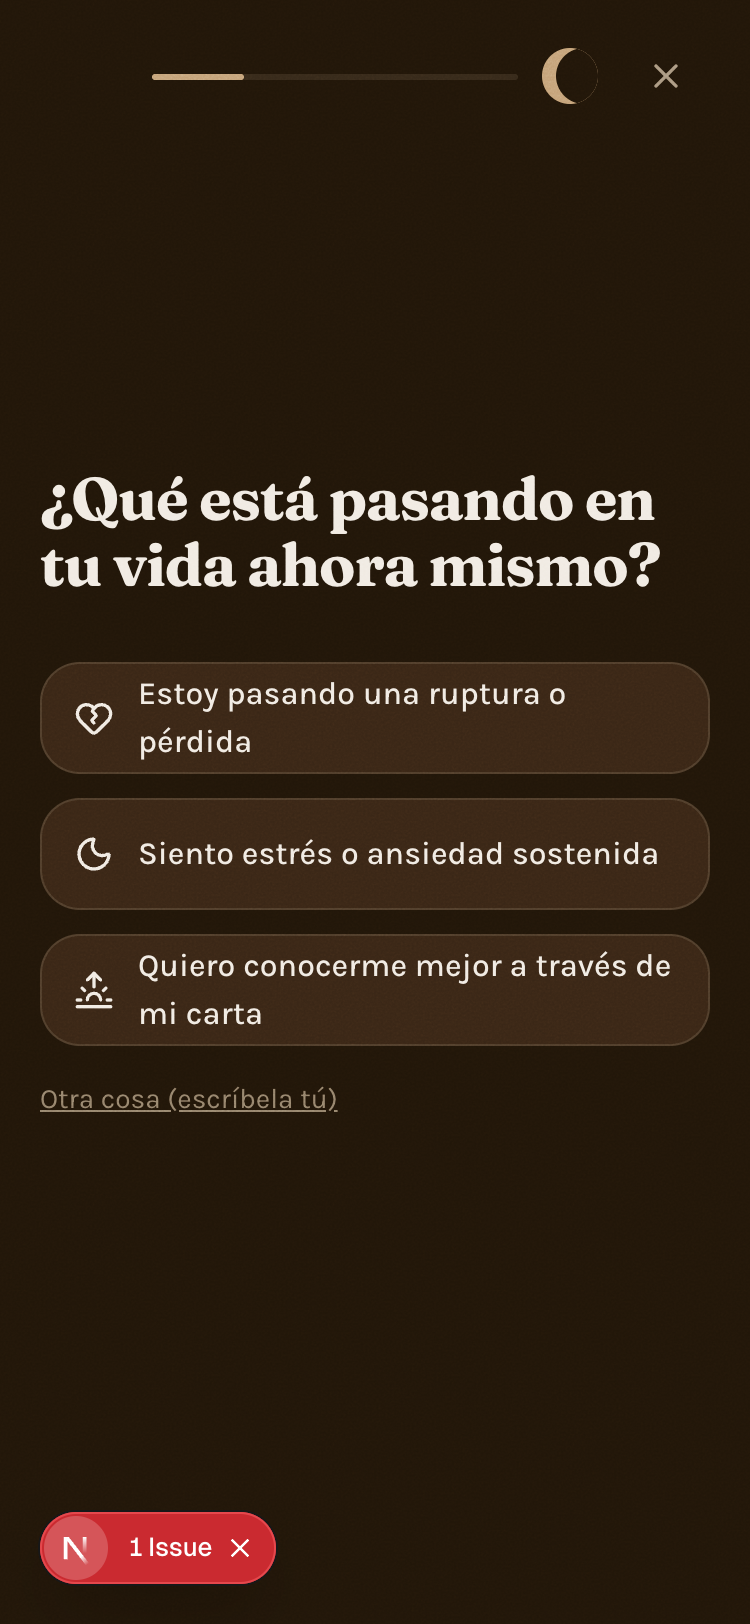
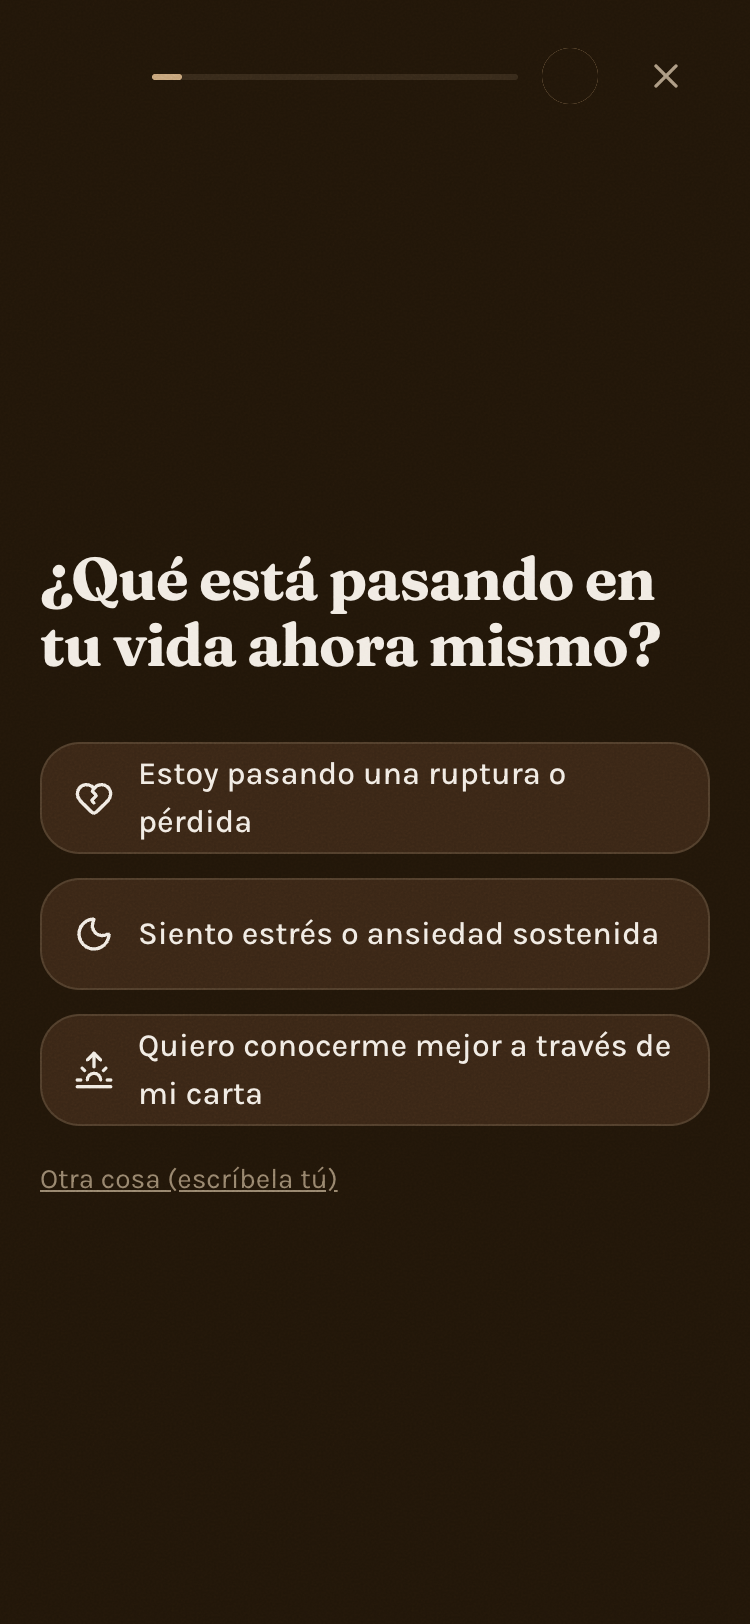
Corrige errores reales de ESLint (causa del overlay dev) y termina de centrar/corregir progreso
- Fix real: componentes usaban <a> en vez de <Link> de Next (error de
  build, causa real del badge "1 Issue" del overlay de desarrollo que
  tapaba texto de los CTAs en las capturas) — Hero.tsx y PlaceholderPage.tsx
- Fix real: window.location.href reemplazado por useRouter().push()
- PantallaReconocimiento ahora también centra su contenido verticalmente
  (antes solo se había aplicado a PantallaPregunta)
- Corrige la semántica de "paso": ahora representa preguntas completadas,
  no la pregunta actual — evita que la barra/luna de progreso lleguen a
  100% antes de responder la última pregunta
- Agrega app/paywall/page.tsx (placeholder faltante, roto en el build)
- Evidencia de aquí en más se captura desde el build de producción
  (npm run build && npm run start), no desde el dev server, para eliminar
  el overlay de Next dev de los screenshots

diff --git a/app/onboarding/page.tsx b/app/onboarding/page.tsx
@@ -8,7 +8,8 @@
 
 import { useEffect, useState } from 'react';
 import { motion, AnimatePresence, useReducedMotion } from 'motion/react';
-import { ChevronLeft, X, HeartCrack, Waves, CircleDashed, HelpCircle, Sunrise, Sun, MoonStar, Moon, MessageCircleHeart, BedDouble, Sparkles } from 'lucide-react';
+import { ChevronLeft, X, HeartCrack, Waves, HelpCircle, Sunrise, Sun, MoonStar, Moon, MessageCircleHeart, BedDouble, Sparkles } from 'lucide-react';
+import { useRouter } from 'next/navigation';
 
 type Respuestas = {
   situacion?: string;
@@ -53,6 +54,7 @@ function BarraProgreso({ paso }: { paso: number }) {
 }
 
 function Header({ paso, onAtras }: { paso: number; onAtras?: () => void }) {
+  const router = useRouter();
   return (
     <div className="flex items-center gap-3 pt-4">
       <button
@@ -69,7 +71,7 @@ function Header({ paso, onAtras }: { paso: number; onAtras?: () => void }) {
         aria-label="Salir del escaneo"
         onClick={() => {
           if (window.confirm('¿Salir ahora? Tus respuestas no se guardan.')) {
-            window.location.href = '/';
+            router.push('/');
           }
         }}
         className="flex size-11 shrink-0 items-center justify-center rounded-full text-[var(--text-secondary)] [touch-action:manipulation]"
@@ -120,7 +122,7 @@ function PantallaPregunta({
         animate={{ opacity: 1, x: 0 }}
         exit={reduce ? { opacity: 1, x: 0 } : { opacity: 0, x: -24 }}
         transition={{ duration: reduce ? 0.2 : 0.3, ease: [0.16, 1, 0.3, 1] }}
-        className="flex flex-1 flex-col justify-center pb-20"
+        className="flex flex-1 flex-col justify-center"
       >
         <h1 className="text-balance text-[30px] font-bold leading-[1.1] tracking-[-0.02em] text-[var(--text-primary)] [font-family:var(--font-display)]">
           {pregunta}
@@ -214,7 +216,7 @@ function PantallaReconocimiento({
       <motion.div
         initial={{ opacity: reduce ? 1 : 0 }}
         animate={{ opacity: 1 }}
-        className="mt-16 flex flex-1 flex-col items-center text-center"
+        className="flex flex-1 flex-col items-center justify-center text-center"
       >
         <motion.span
           initial={reduce ? { scale: 1, opacity: 1 } : { scale: 0.7, opacity: 0 }}
@@ -388,7 +390,7 @@ export default function Onboarding() {
         {paso === 'pregunta-situacion' && (
           <PantallaPregunta
             key="situacion"
-            paso={1}
+            paso={0}
             pregunta="¿Qué está pasando en tu vida ahora mismo?"
             opciones={[
               { icon: HeartCrack, label: 'Estoy pasando una ruptura o pérdida' },
@@ -405,7 +407,7 @@ export default function Onboarding() {
         {paso === 'pregunta-zona' && (
           <PantallaPregunta
             key="zona"
-            paso={2}
+            paso={1}
             pregunta="¿Dónde sientes la tensión ahora mismo?"
             subcopy="Esto define tu primer ejercicio de hoy"
             opciones={[
@@ -424,7 +426,7 @@ export default function Onboarding() {
         {paso === 'pregunta-momento' && (
           <PantallaPregunta
             key="momento"
-            paso={3}
+            paso={2}
             pregunta="¿Cuándo te pega más fuerte?"
             opciones={[
               { icon: Sunrise, label: 'Al despertar' },
@@ -456,7 +458,7 @@ export default function Onboarding() {
         {paso === 'pregunta-meta' && (
           <PantallaPregunta
             key="meta"
-            paso={4}
+            paso={3}
             pregunta="¿Qué te gustaría lograr en 30 días?"
             opciones={[
               { icon: HeartCrack, label: 'Dejar de contactar a mi ex' },

diff --git a/components/landing/Hero.tsx b/components/landing/Hero.tsx
@@ -7,6 +7,7 @@
 // fondo YA incluido · carga inmediata (fade simple, nada que compita con el LCP).
 
 import type { ReactNode } from 'react';
+import Link from 'next/link';
 import { motion } from 'motion/react';
 import { Camera } from 'lucide-react';
 import { CtaButton } from './ui';
@@ -69,14 +70,14 @@ export function Hero({
       <div className="mx-auto w-full max-w-[1140px] px-5">
         {/* Header 64px: marca a la izquierda, SOLO "Entrar" terciario a la derecha (19) */}
         <header className="flex h-16 items-center justify-between">
-          <a href="/" className="flex items-center gap-2 text-[16px] font-semibold text-[var(--text-primary)]">
+          <Link href="/" className="flex items-center gap-2 text-[16px] font-semibold text-[var(--text-primary)]">
             {logo ?? <span aria-hidden="true" className="size-6 rounded-[8px] bg-[var(--accent)]" />}
             {appName}
-          </a>
+          </Link>
           {loginHref && (
-            <a href={loginHref} className="px-2 py-3 text-[14px] font-medium text-[var(--text-tertiary)]">
+            <Link href={loginHref} className="px-2 py-3 text-[14px] font-medium text-[var(--text-tertiary)]">
               {loginLabel}
-            </a>
+            </Link>
           )}
         </header>
 

diff --git a/components/PlaceholderPage.tsx b/components/PlaceholderPage.tsx
@@ -1,9 +1,11 @@
+import Link from 'next/link';
+
 export function PlaceholderPage({ titulo, nota }: { titulo: string; nota: string }) {
   return (
     <main className="mx-auto max-w-2xl px-5 py-16 bg-[var(--bg)] text-[var(--text-primary)] min-h-dvh [font-family:var(--font-body)]">
       <h1 className="text-3xl font-bold [font-family:var(--font-display)]">{titulo}</h1>
       <p className="mt-4 text-[var(--text-secondary)]">{nota}</p>
-      <a href="/" className="mt-8 inline-block text-[var(--accent)] underline">Volver al inicio</a>
+      <Link href="/" className="mt-8 inline-block text-[var(--accent)] underline">Volver al inicio</Link>
     </main>
   );
 }

diff --git a/app/paywall/page.tsx b/app/paywall/page.tsx
@@ -1,0 +1,12 @@
+import { PlaceholderPage } from '@/components/PlaceholderPage';
+
+export const metadata = { title: 'Tu plan — AstroSoma' };
+
+export default function Paywall() {
+  return (
+    <PlaceholderPage
+      titulo="Tu plan de liberación"
+      nota="El paywall real (Paso 3 de la Secuencia Maestra) se construye en la próxima etapa: aquí vivirán los planes anual y mensual, la garantía y el checkout de Hotmart."
+    />
+  );
+}

diff --git a/docs/revisiones/onboarding-veredicto.md b/docs/revisiones/onboarding-veredicto.md
@@ -1,14 +1,14 @@
 # VEREDICTO revisor-visual — onboarding
 Fecha: 2026-09-04 00:00
 Screenshot: docs/revisiones/onboarding-1-situacion.png (+ 7 pantallas adicionales onboarding-2..8)
-Usabilidad: 29/40
-Craft: 11/20
+Usabilidad: 25/40
+Craft: 12/20
 Copy (si vende): N-A
 Fidelidad (si hubo referencia): N-A
 Veredicto: NO LISTA
 Top defectos:
-1. [Pantallas de pregunta 1, 2, 3 y 5 — mitad inferior de la pantalla] Tras las opciones queda un bloque de vacío negro de ~500-600px (casi la mitad del viewport) sin ningún elemento hasta el badge de dev fijo abajo; rompe el encaje óptico y da sensación de pantalla incompleta/rota → centrar verticalmente el bloque pregunta+opciones en el viewport, o rellenar el espacio con un elemento visual de marca (textura de papel, ilustración de fase lunar) en vez de dejarlo negro.
-2. [app/onboarding/page.tsx, componente PantallaLoading, línea 239] Usa `useState(() => {...})` para programar los 3 `setTimeout` en vez de `useEffect`; el inicializador de useState no limpia correctamente al desmontar y puede disparar actualizaciones de estado en componente desmontado — coincide con el overlay rojo "1 Issue" visible en las 8 capturas → reemplazar por `useEffect(() => {...}, [])` con el mismo cleanup.
-3. [Todas las pantallas, superficies/cards] FICHA-ARTE.md promete un "dispositivo ownable" (textura de papel/grano sutil en cards + micro-fase lunar como indicador de progreso) que no aparece en ningún screenshot: superficies planas sin grano, barra de progreso es una simple línea sin fase lunar → aplicar el grano de papel al `--surface` y sustituir/acompañar la barra de progreso con el indicador lunar descrito en la ficha.
-4. [Pantalla 8 resultado, anillo del 72%] El SVG tiene `strokeDasharray`/`strokeDashoffset` correctos pero se renderiza ya completo desde el primer frame (sin animación de dibujo) pese a que la ficha define una "firma de movimiento" de respiración/dibujo progresivo, y contrasta con la barra de progreso del header que sí anima su ancho → animar el `strokeDashoffset` de 0 (círculo vacío) al valor final al montar la pantalla, gateado por `useReducedMotion`.
-5. [Header, botón "X" de salida — todas las pantallas] Sale directo a "/" sin confirmación ni aviso de que las respuestas no se guardan, aun con progreso ya avanzado (paso 3-4 de 4) → agregar confirmación breve ("¿Salir ahora? tus respuestas no se guardan") antes de navegar fuera del flujo.
+1. [Todas las pantallas — badge "1 Issue" rojo abajo-izquierda, visible en las 8 capturas] Sigue apareciendo el overlay de error de Next.js dev en TODAS las pantallas nuevas (el mismo síntoma que motivó el defecto #2 de la revisión anterior); en resultado (pantalla 8) y en ambos reconocimientos tapa parcialmente el texto del CTA ("Ver mi plan de liberación" se lee cortado como "...i plan de liberación") → el cambio de `useState` a `useEffect` en `PantallaLoading` no eliminó la causa raíz; revisar consola/errores del build más allá de ese timer y confirmar en un build de producción real (sin overlay de dev) que no hay warnings/errors pendientes.
+2. [Pantallas de pregunta 1 (situación), 2 (zona), 3 (momento), 5 (meta) — mitad inferior] El vacío negro tras las opciones sigue presente y queda asimétrico: el bloque pregunta+opciones se ve muy por encima del centro real del viewport (gap superior visiblemente menor que el inferior), pese al `justify-center` agregado en `PantallaPregunta` → el `pb-20` fijo descentra el contenido hacia arriba; quitarlo y centrar con `justify-center` puro, o verificar que `min-h-dvh` resuelva la altura real del viewport en el entorno donde se capturó.
+3. [Pantallas de reconocimiento 4 y 6 — sin tocar] `PantallaReconocimiento` sigue usando `mt-16` fijo + contenido top-alineado con el botón "Continuar" pinneado abajo, dejando el mismo vacío enorme sin resolver; el fix de centrado documentado solo se aplicó a `PantallaPregunta`, no a este componente hermano → aplicar la misma estrategia de centrado vertical a ambos, no solo a uno.
+4. [Header, barra de progreso + luna — pantalla 5 "meta"] La barra llega a 100% y la luna se ve llena ANTES de que el usuario responda la última pregunta (`frac = paso/TOTAL_PREGUNTAS` = 4/4 ya en la pantalla de la pregunta 4, no al completarla) → declarar "completo" antes de tiempo es un estado de sistema falso; calcular con `(paso-1)/TOTAL_PREGUNTAS` o avanzar el contador solo tras responder.
+5. [Cards y superficies — todas las pantallas] La textura de papel/grano que promete FICHA-ARTE.md como dispositivo ownable (línea 26) sigue sin ser perceptible: las cards de opción y la card de resultado se ven como fills planos de color sin grano visible → si está implementado, subir su opacidad hasta que se perciba en captura; si no, añadirlo (ej. overlay SVG de ruido de baja opacidad sobre `--surface`).
